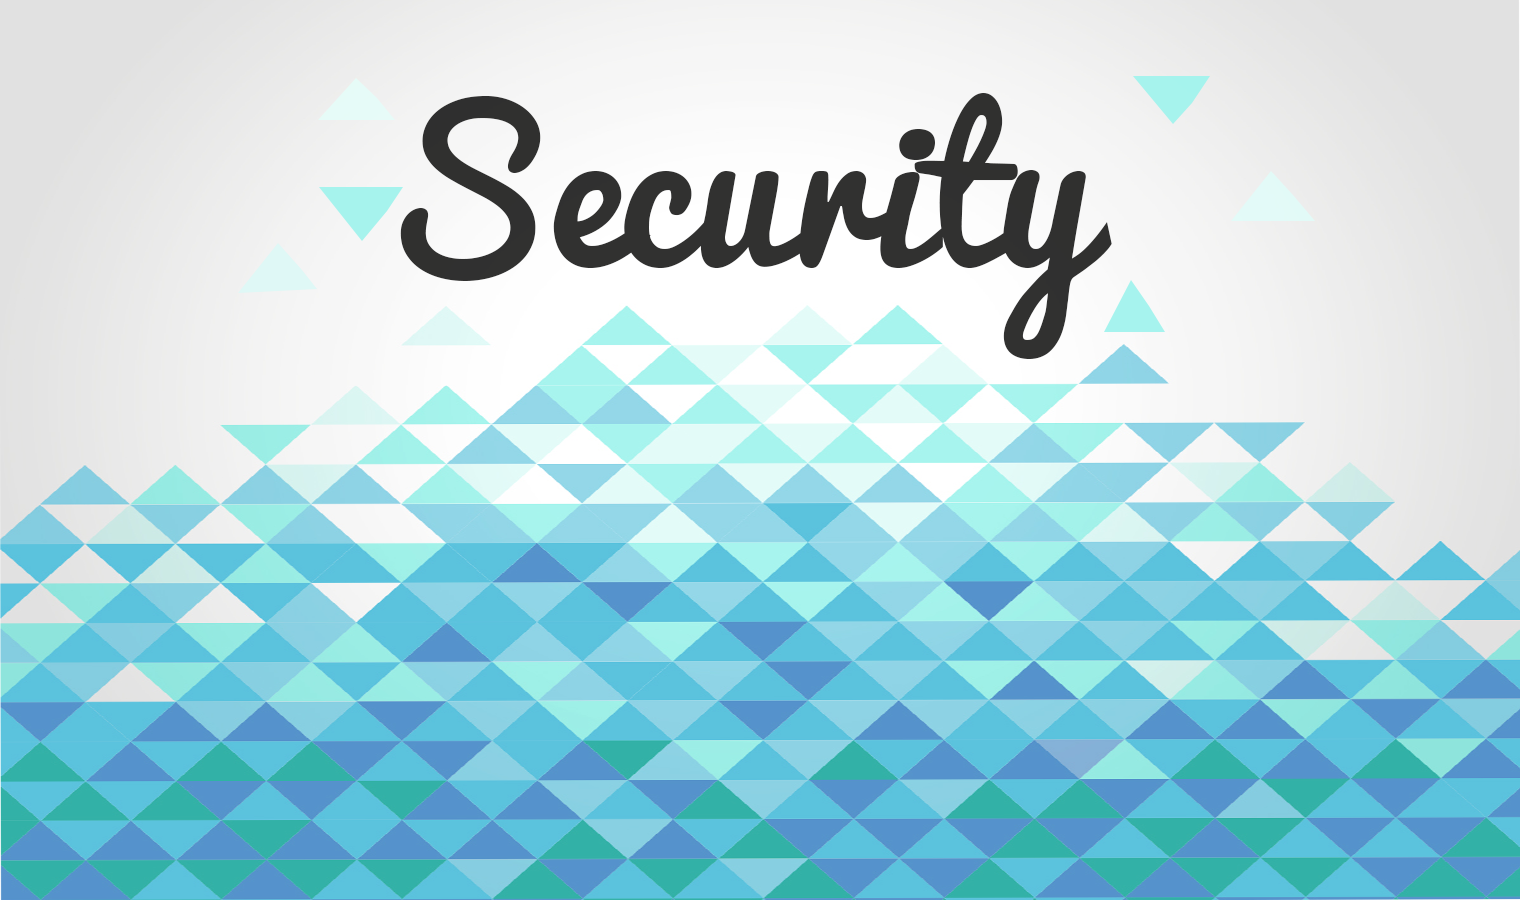
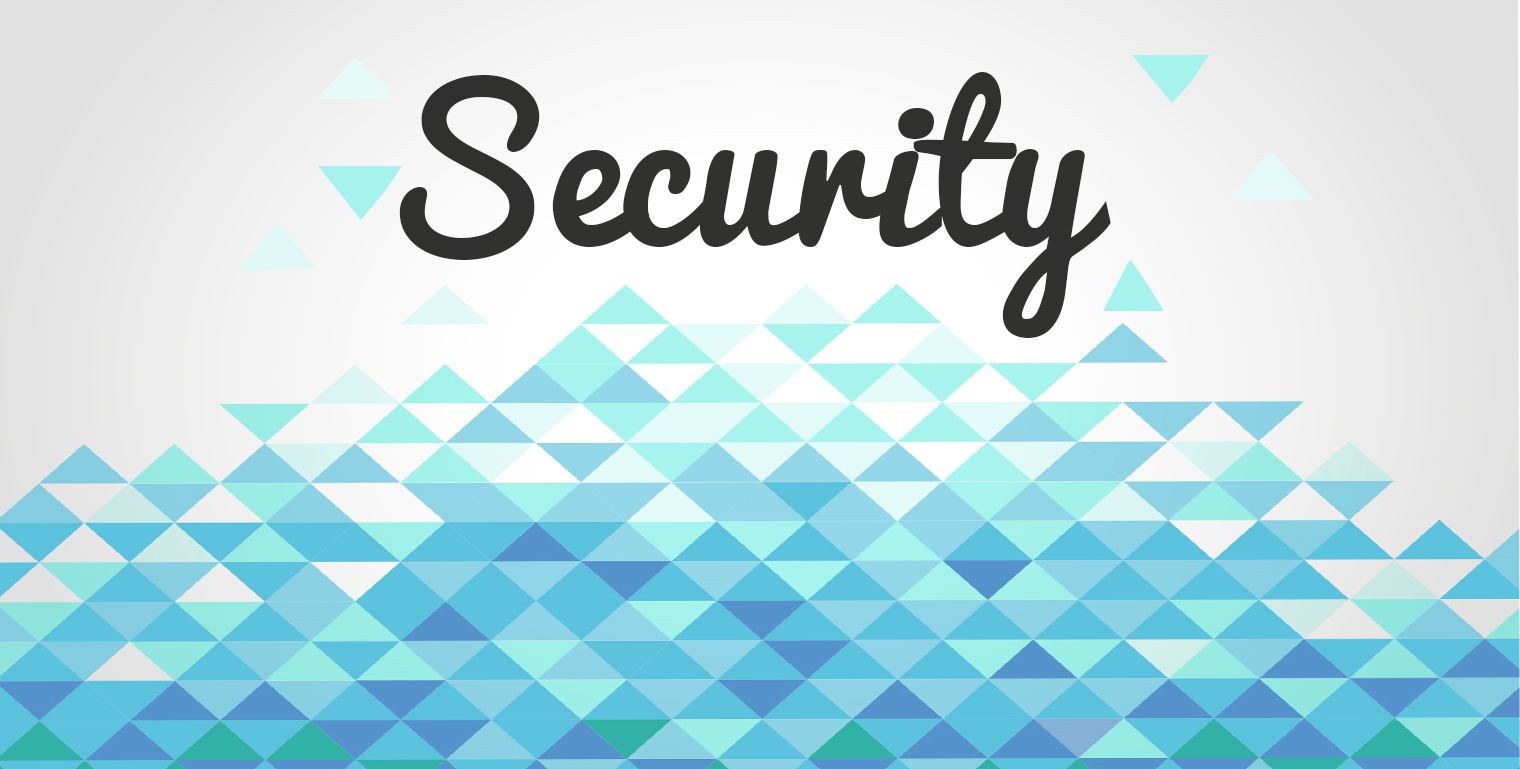
calendario

diff --git a/WEBAPP/Views/assets/css/main.css b/WEBAPP/Views/assets/css/main.css
@@ -94,7 +94,7 @@
 	}
 
 	body, input, select, textarea {
-		font-family: "Source Sans Pro", Helvetica, sans-serif;
+		font-family: arial;
 		font-size: 17pt;
 		font-weight: 200;
 		line-height: 1.65;

diff --git a/WEBAPP/Views/css/styleMenu.css b/WEBAPP/Views/css/styleMenu.css
@@ -117,7 +117,7 @@ margin-bottom: 0;
 #fondopan{
 
 	width: 100%;
-	height: 900px;
+	height: 769px;
 	background: url(../images/fondopantalla.png);
 }
 #conteS{

diff --git a/WEBAPP/Views/css/style.css b/WEBAPP/Views/css/style.css
@@ -38,7 +38,7 @@ body{
 	
 }
 .row label{
-	margin-left: 200px;
+	margin-left: 155px;
 	margin-top: 30px;
 }
 

diff --git a/WEBAPP/Views/registro.registro_producto.php b/WEBAPP/Views/registro.registro_producto.php
@@ -7,7 +7,7 @@ include("../Model/registro.producto.class.php");
 $producto=Gestion_producto::consultarprodu();
 $cargarusu=Gestion_producto::consultarultimousu();
 
-
+$fecha=date("Y-m-d");
 ?>
 <html>
 <head>
@@ -48,9 +48,8 @@ $cargarusu=Gestion_producto::consultarultimousu();
 		<input name="registre_color" type="color" required/>
 
 	
-		<label >Registre Fecha </label>
-		<input  name="registre_fecha" type="date" required/>
-	
+		<label>Fecha:</label>
+		<input autocomplete='off'  name='fecha' type='date' min='<?php echo $fecha; ?>'class='' id='fecha' value="<?php echo $fecha; ?>">
 		
 		<label >Registre descripcion</label>
 		<textarea name="registre_decrip" type="text"></textarea>
